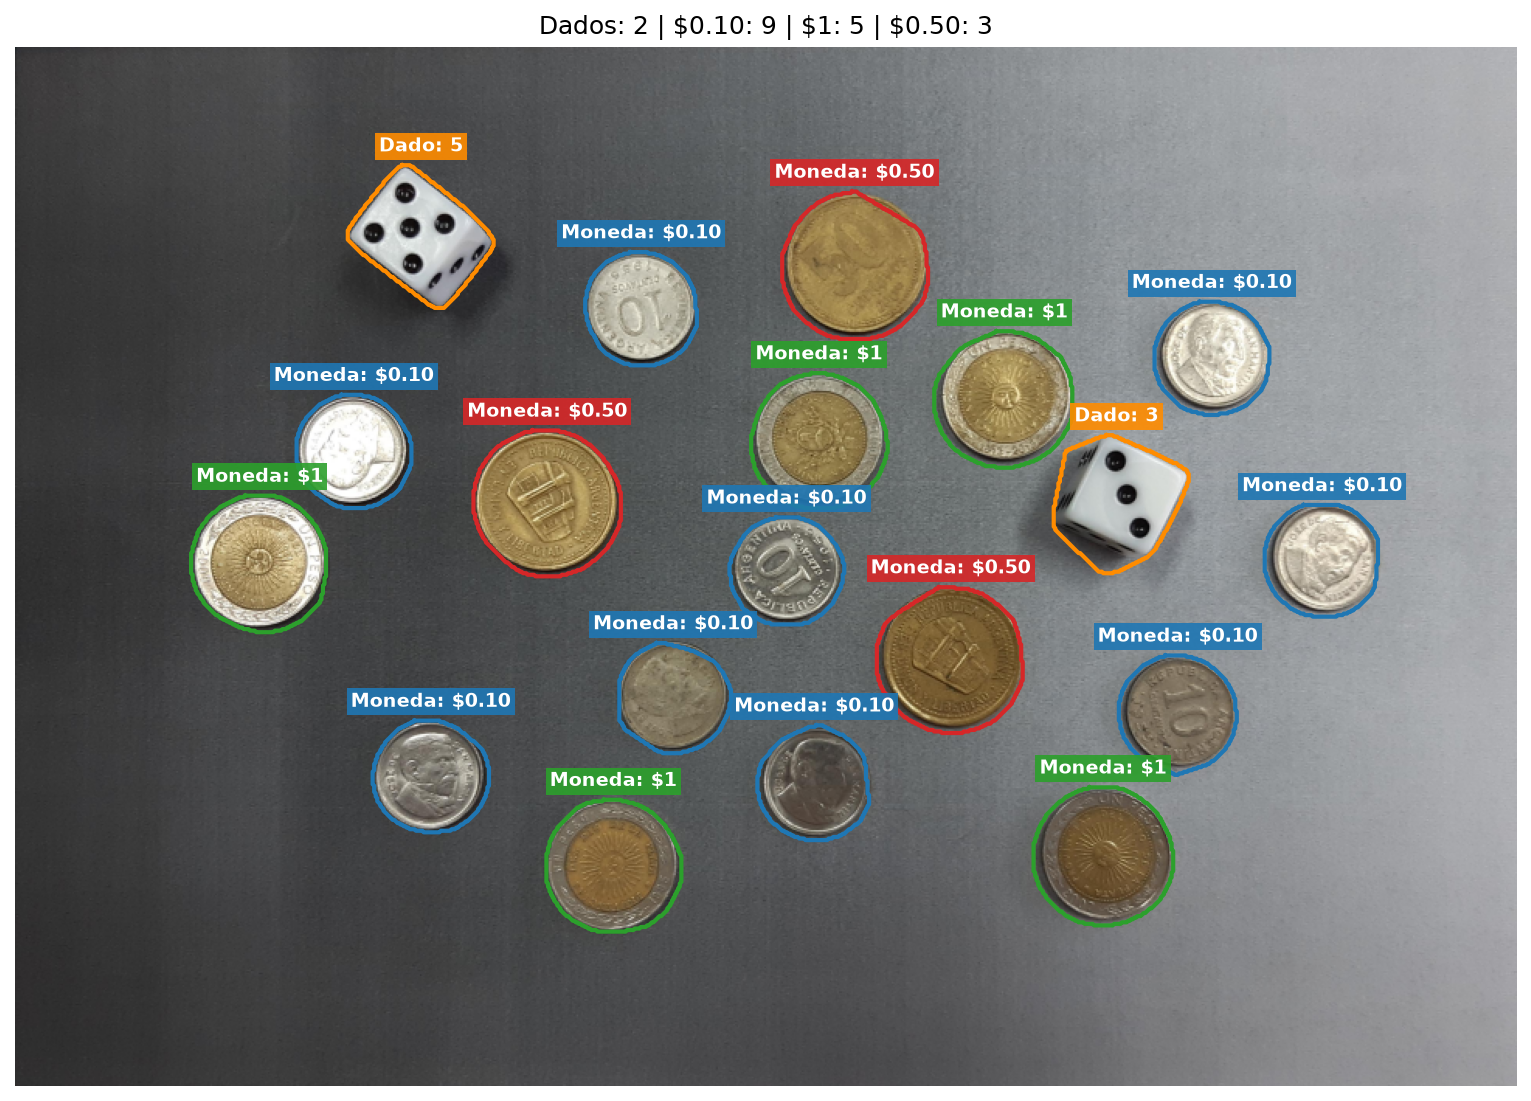
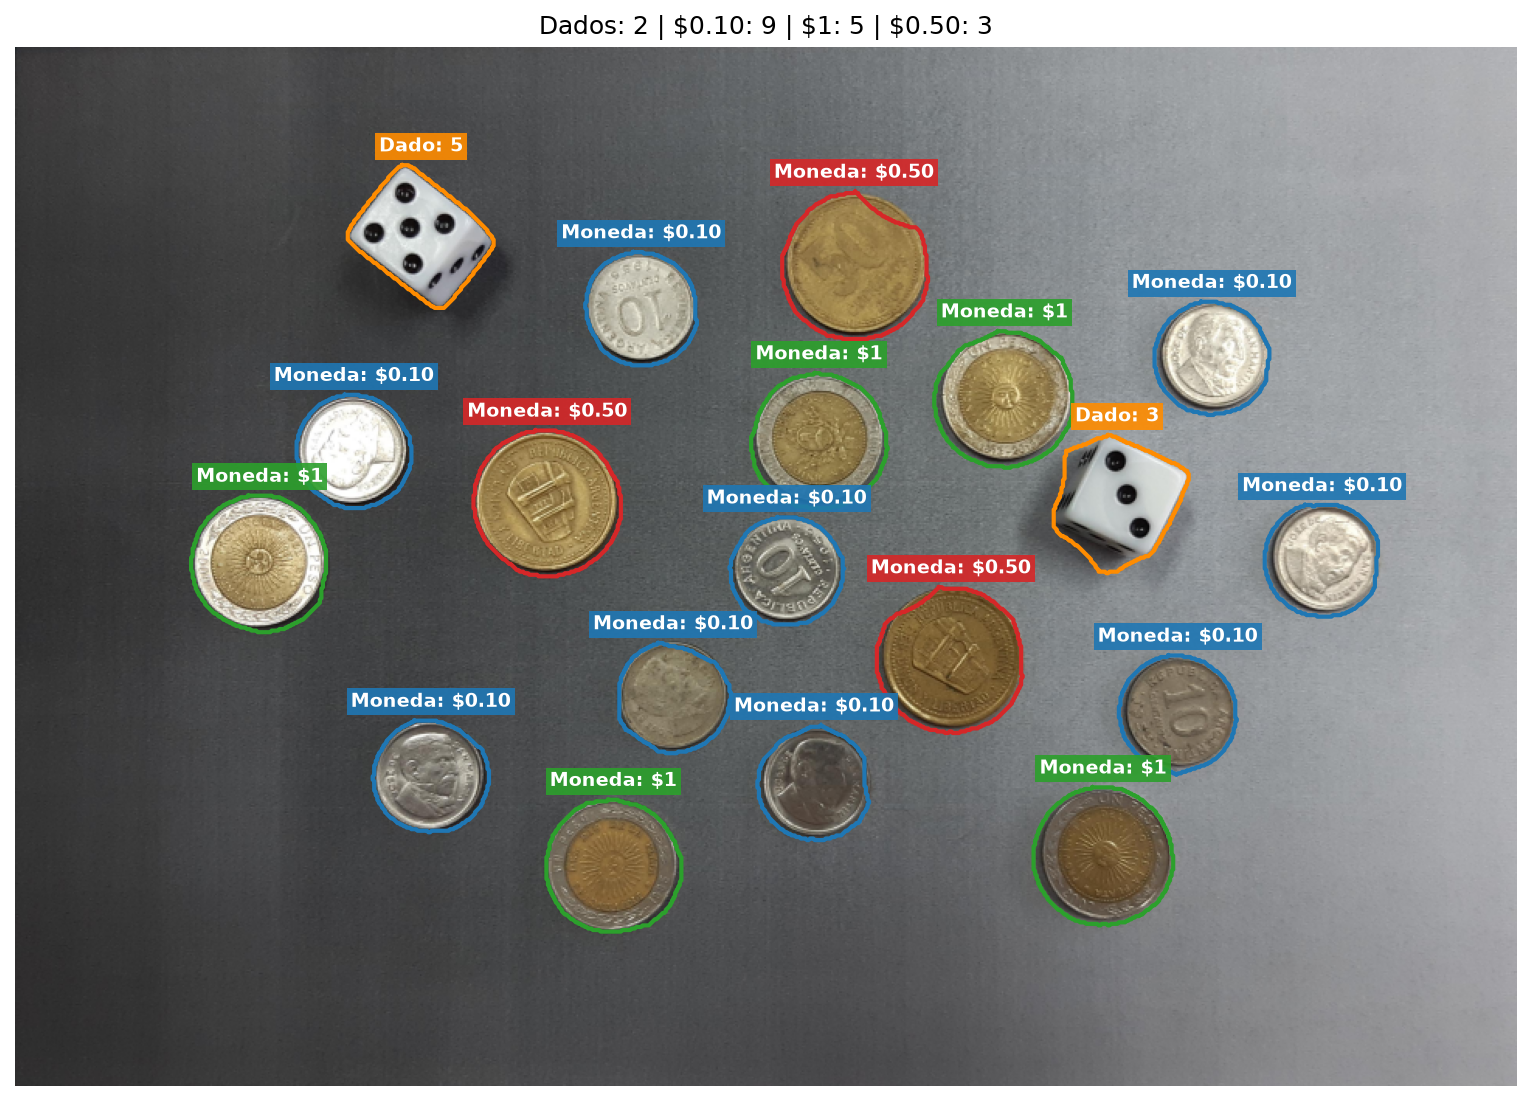
Dados VS Monedas

diff --git a/problema_1_monedas.py b/problema_1_monedas.py
@@ -115,12 +115,34 @@ plt.tight_layout()
 plt.show()
 
 
-# --- Paso 3: limpiar, cerrar y rellenar --------------------------------
+# --- Paso 3: limpiar bordes y obtener la máscara inicial ----------------
+
+# Funciones que usan los pasos 3 y 4
+def rellenar_huecos(mascara):
+    # Borde de 1 px: garantiza que la esquina (0,0) sea fondo exterior
+    m = cv2.copyMakeBorder(mascara, 1, 1, 1, 1, cv2.BORDER_CONSTANT, value=0)
+
+    # Fondo y huecos = 1; componentes conectadas con conectividad 4 (como en contar_huecos)
+    fondo = np.uint8(m == 0)
+    n, lab, _, _ = cv2.connectedComponentsWithStats(fondo, connectivity=4)
+
+    # Lo que NO es fondo exterior (objeto + huecos) queda en 255
+    exterior = lab[0, 0]
+    relleno = np.uint8(lab != exterior) * 255
+    return relleno[1:-1, 1:-1]
+
+
+def cerrar_y_rellenar(bordes, k):
+    kernel = cv2.getStructuringElement(cv2.MORPH_ELLIPSE, (k, k))
+    cerrado = cv2.dilate(bordes, kernel)
+    relleno = rellenar_huecos(cerrado)
+    return cv2.erode(relleno, kernel)
+
 
 # Bordes con el umbral elegido
 _, bordes = cv2.threshold(magnitud_u8, 20, 255, cv2.THRESH_BINARY)
 
-# 1) Elimino ruido suelto por área de componente conectada (3.3)
+# Elimino ruido suelto por área de componente conectada (3.3)
 n, labels, stats, _ = cv2.connectedComponentsWithStats(bordes, connectivity=8)
 bordes_limpios = np.zeros_like(bordes)
 for i in range(1, n):
@@ -128,94 +150,109 @@ for i in range(1, n):
         bordes_limpios[labels == i] = 255
 print("Componentes antes de limpiar:", n - 1)
 
-def cerrar_y_rellenar(bordes, k):
-    kernel = cv2.getStructuringElement(cv2.MORPH_ELLIPSE, (k, k))
+# Máscara inicial con dos kernels, para comparar
+mascara_7 = cerrar_y_rellenar(bordes_limpios, 7)
+mascara_11 = cerrar_y_rellenar(bordes_limpios, 11)
 
-    # 2) Dilato para cerrar los cortes que quedan en los contornos
-    cerrado = cv2.dilate(bordes, kernel)
-
-    # 3) Relleno desde el fondo: lo que no se inunda es interior de un objeto
-    inundado = cerrado.copy()
-    aux = np.zeros((cerrado.shape[0] + 2, cerrado.shape[1] + 2), np.uint8)
-    cv2.floodFill(inundado, aux, (0, 0), 255)
-    huecos = cv2.bitwise_not(inundado)
-    relleno = cv2.bitwise_or(cerrado, huecos)
-
-    # Erosiono con el mismo kernel para recuperar el tamaño
-    return cv2.erode(relleno, kernel)
+n_7, _, _, _ = cv2.connectedComponentsWithStats(mascara_7, connectivity=8)
+n_11, _, _, _ = cv2.connectedComponentsWithStats(mascara_11, connectivity=8)
+print("Kernel 7:", n_7 - 1, "componentes")
+print("Kernel 11:", n_11 - 1, "componentes")
 
 plt.figure(figsize=(15, 5))
+
 ax1 = plt.subplot(131)
 plt.imshow(bordes_limpios, cmap="gray")
 plt.title("Bordes limpios (T=20)")
 plt.axis("off")
 
-for idx, k in enumerate((7, 11)):
-    mascara_k = cerrar_y_rellenar(bordes_limpios, k)
-    n_obj, _, _, _ = cv2.connectedComponentsWithStats(mascara_k, connectivity=8)
-    print(f"Kernel {k}: {n_obj - 1} componentes")
-
-    plt.subplot(1, 3, idx + 2, sharex=ax1, sharey=ax1)
-    plt.imshow(mascara_k, cmap="gray")
-    plt.title(f"Relleno kernel {k}")
-    plt.axis("off")
-
-plt.tight_layout()
-plt.show()
-
-
-# --- Paso 4: envolvente convexa por componente (máscara kernel 7) ------
-
-mascara_7 = cerrar_y_rellenar(bordes_limpios, 7)
-
-n, labels, stats, cents = cv2.connectedComponentsWithStats(mascara_7, connectivity=8)
-print("Componentes en mascara_7:", n - 1)
-
-# Áreas ordenadas, para detectar fragmentos o uniones
-areas = sorted(stats[1:, cv2.CC_STAT_AREA])
-print("Áreas ordenadas:", areas)
-
-# Envolvente convexa de cada componente, por separado
-mascara_hull = np.zeros_like(mascara_7)
-for i in range(1, n):
-    comp = np.uint8(labels == i) * 255
-    contornos, _ = cv2.findContours(comp, cv2.RETR_EXTERNAL, cv2.CHAIN_APPROX_SIMPLE)
-    cnt = max(contornos, key=cv2.contourArea)
-    hull = cv2.convexHull(cnt)
-    cv2.drawContours(mascara_hull, [hull], -1, 255, thickness=-1)
-
-# Cuento los objetos finales
-n_final, _, _, _ = cv2.connectedComponentsWithStats(mascara_hull, connectivity=8)
-print("Objetos tras la envolvente:", n_final - 1, "(esperado: 19)")
-
-# Contornos de la máscara final sobre la imagen reducida, para verificar
-contornos_f, _ = cv2.findContours(mascara_hull, cv2.RETR_EXTERNAL, cv2.CHAIN_APPROX_SIMPLE)
-overlay = cv2.cvtColor(img_ch, cv2.COLOR_GRAY2RGB)
-cv2.drawContours(overlay, contornos_f, -1, (255, 0, 0), 2)
-
-plt.figure(figsize=(15, 5))
-
-ax1 = plt.subplot(131)
-plt.imshow(mascara_7, cmap="gray")
-plt.title("Kernel 7")
-plt.axis("off")
-
 plt.subplot(132, sharex=ax1, sharey=ax1)
-plt.imshow(mascara_hull, cmap="gray")
-plt.title("Con envolvente convexa")
+plt.imshow(mascara_7, cmap="gray")
+plt.title("Relleno kernel 7 (el elegido)")
 plt.axis("off")
 
 plt.subplot(133, sharex=ax1, sharey=ax1)
-plt.imshow(overlay)
-plt.title("Contornos sobre la imagen")
+plt.imshow(mascara_11, cmap="gray")
+plt.title("Relleno kernel 11 (se pegan objetos)")
 plt.axis("off")
 
 plt.tight_layout()
 plt.show()
 
+# --- Paso 4: completar cada objeto (clausura por componente + relleno) ---
+
+def completar_objeto(comp, k):
+    """comp: recorte 0/255 de UN solo objeto. Devuelve el mismo tamaño."""
+    p = k
+    comp_p = cv2.copyMakeBorder(comp, p, p, p, p, cv2.BORDER_CONSTANT, value=0)
+    kernel = cv2.getStructuringElement(cv2.MORPH_ELLIPSE, (k, k))
+    cerrado = cv2.morphologyEx(comp_p, cv2.MORPH_CLOSE, kernel)
+    lleno = rellenar_huecos(cerrado)
+    return lleno[p:-p, p:-p]
+
+
+# Componentes de la máscara inicial (kernel 7)
+n, labels, stats, cents = cv2.connectedComponentsWithStats(mascara_7, connectivity=8)
+print("Componentes en mascara_7:", n - 1)
+
+# Pruebo dos kernels de clausura
+resultados = {}
+for k in (81, 111):
+    mascara_k = np.zeros_like(mascara_7)
+    for i in range(1, n):
+        x = stats[i, cv2.CC_STAT_LEFT]
+        y = stats[i, cv2.CC_STAT_TOP]
+        w = stats[i, cv2.CC_STAT_WIDTH]
+        h = stats[i, cv2.CC_STAT_HEIGHT]
+
+        # Trabajo solo sobre el recuadro del objeto i
+        comp = np.uint8(labels[y:y+h, x:x+w] == i) * 255
+        lleno = completar_objeto(comp, k)
+        mascara_k[y:y+h, x:x+w] = cv2.bitwise_or(mascara_k[y:y+h, x:x+w], lleno)
+
+    n_k, _, _, _ = cv2.connectedComponentsWithStats(mascara_k, connectivity=8)
+    print(f"Kernel {k}: {n_k - 1} objetos (esperado: 19)")
+    resultados[k] = mascara_k
+
+# Máscara final de los objetos
+mascara_final = resultados[111]
+
+# Borde de cada objeto con el gradiente morfológico (6.4), para el overlay
+k_grad = cv2.getStructuringElement(cv2.MORPH_RECT, (3, 3))
+bordes_final = cv2.morphologyEx(mascara_final, cv2.MORPH_GRADIENT, k_grad)
+
+overlay = cv2.cvtColor(img_ch, cv2.COLOR_GRAY2RGB)
+overlay[bordes_final > 0] = (255, 0, 0)
+
+plt.figure(figsize=(15, 9))
+
+ax1 = plt.subplot(221)
+plt.imshow(mascara_7, cmap="gray")
+plt.title("Máscara inicial (kernel 7)")
+plt.axis("off")
+
+plt.subplot(222, sharex=ax1, sharey=ax1)
+plt.imshow(resultados[81], cmap="gray")
+plt.title("Clausura por objeto k=81")
+plt.axis("off")
+
+plt.subplot(223, sharex=ax1, sharey=ax1)
+plt.imshow(mascara_final, cmap="gray")
+plt.title("Clausura por objeto k=111 (final)")
+plt.axis("off")
+
+plt.subplot(224, sharex=ax1, sharey=ax1)
+plt.imshow(overlay)
+plt.title("Bordes sobre la imagen")
+plt.axis("off")
+
+plt.tight_layout()
+plt.show()
+
+
 # --- Paso 5: descriptores geométricos de cada objeto -------------------
 
-n, labels, stats, cents = cv2.connectedComponentsWithStats(mascara_hull, connectivity=8)
+n, labels, stats, cents = cv2.connectedComponentsWithStats(mascara_final, connectivity=8)
 
 objetos = []
 for i in range(1, n):
@@ -280,7 +317,7 @@ for t in range(3):
 
 # 3) Visualización: un color por categoría
 colores = {"dado": (255, 255, 255), 0: (255, 0, 0), 1: (0, 200, 0), 2: (0, 0, 255)}
-salida = np.zeros((*mascara_hull.shape, 3), np.uint8)
+salida = np.zeros((*mascara_final.shape, 3), np.uint8)
 for o in dados:
     salida[labels == o["id"]] = colores["dado"]
 for o in monedas:
